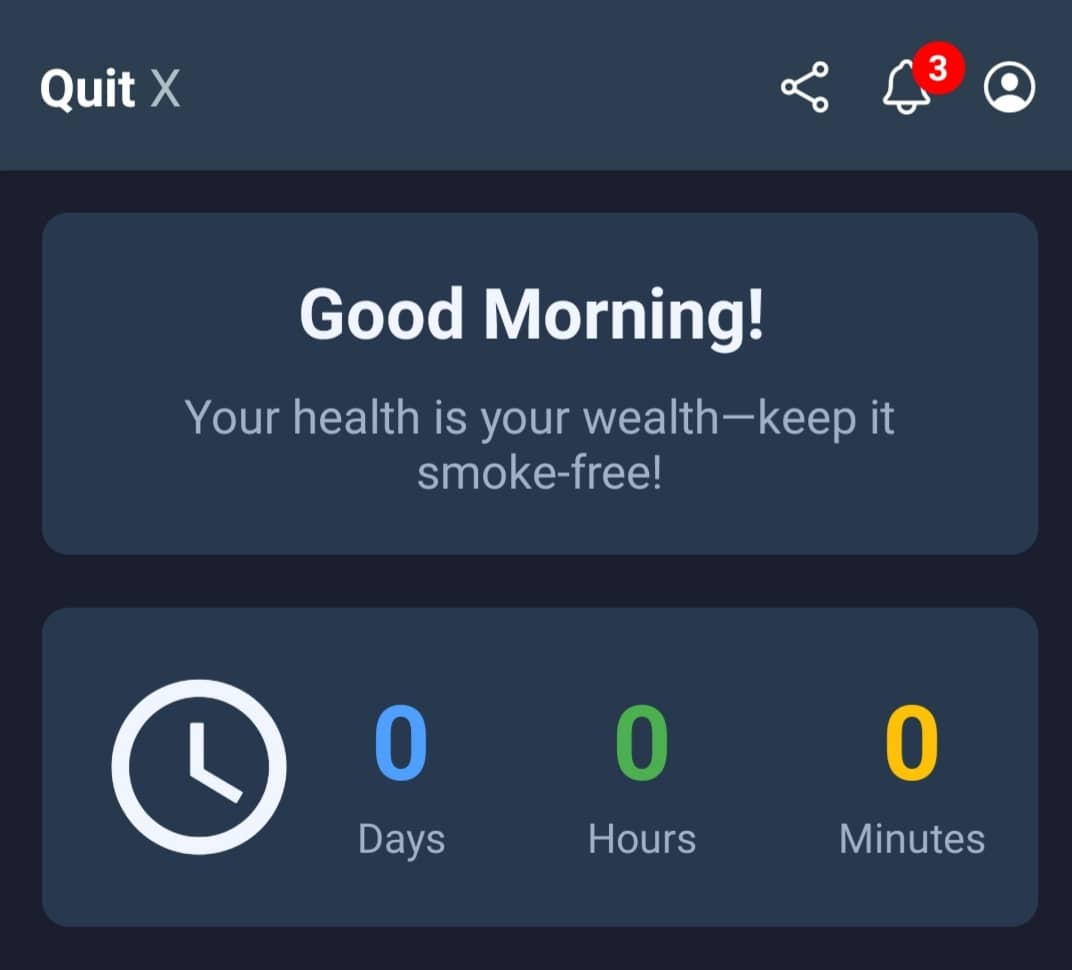
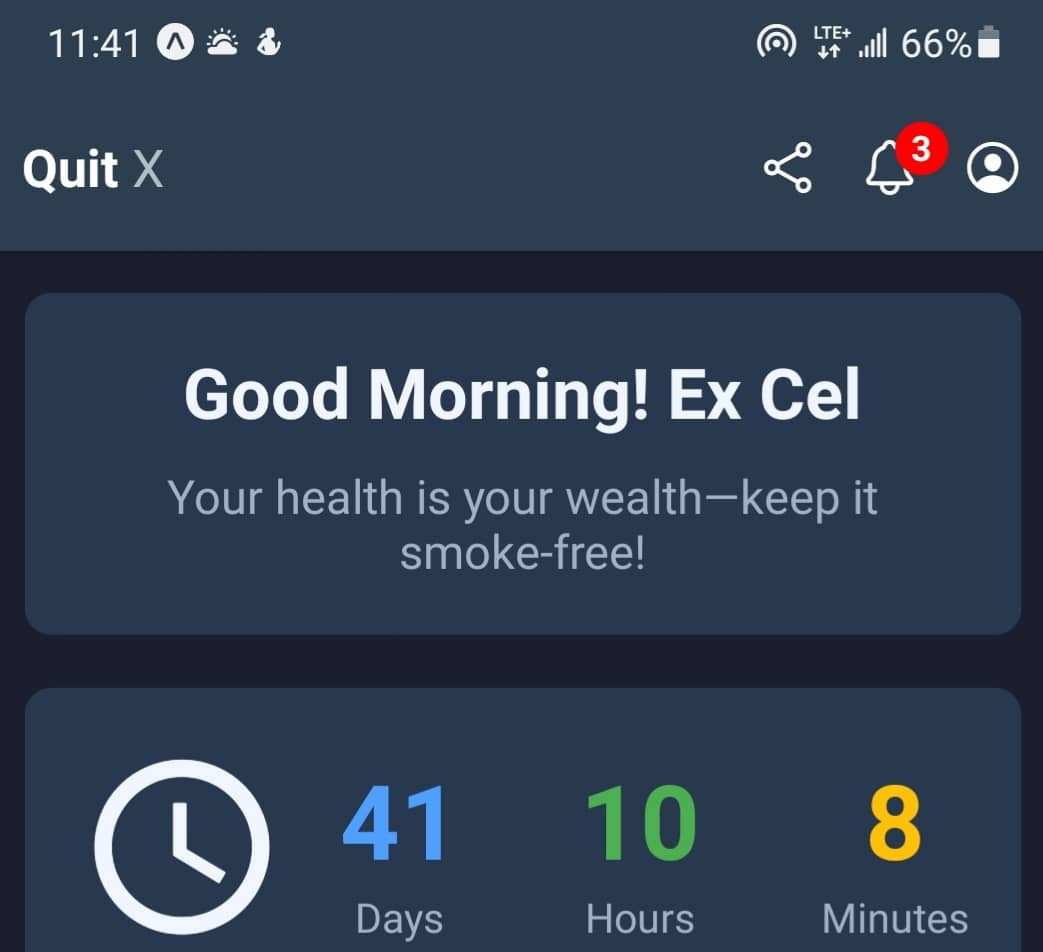
quit smoking image updated

diff --git a/src/constants/index.js b/src/constants/index.js
@@ -34,7 +34,7 @@ import Edwin from '../assets/Edwin.png'
 import real from '../assets/realestate.png';
 import ecom from '../assets/ecom.png';
 import diaspora from '../assets/dispora.png';
-import quit from '../assets/qui.jpg';
+import quit from '../assets/qui1.jpg';
 
 
 
